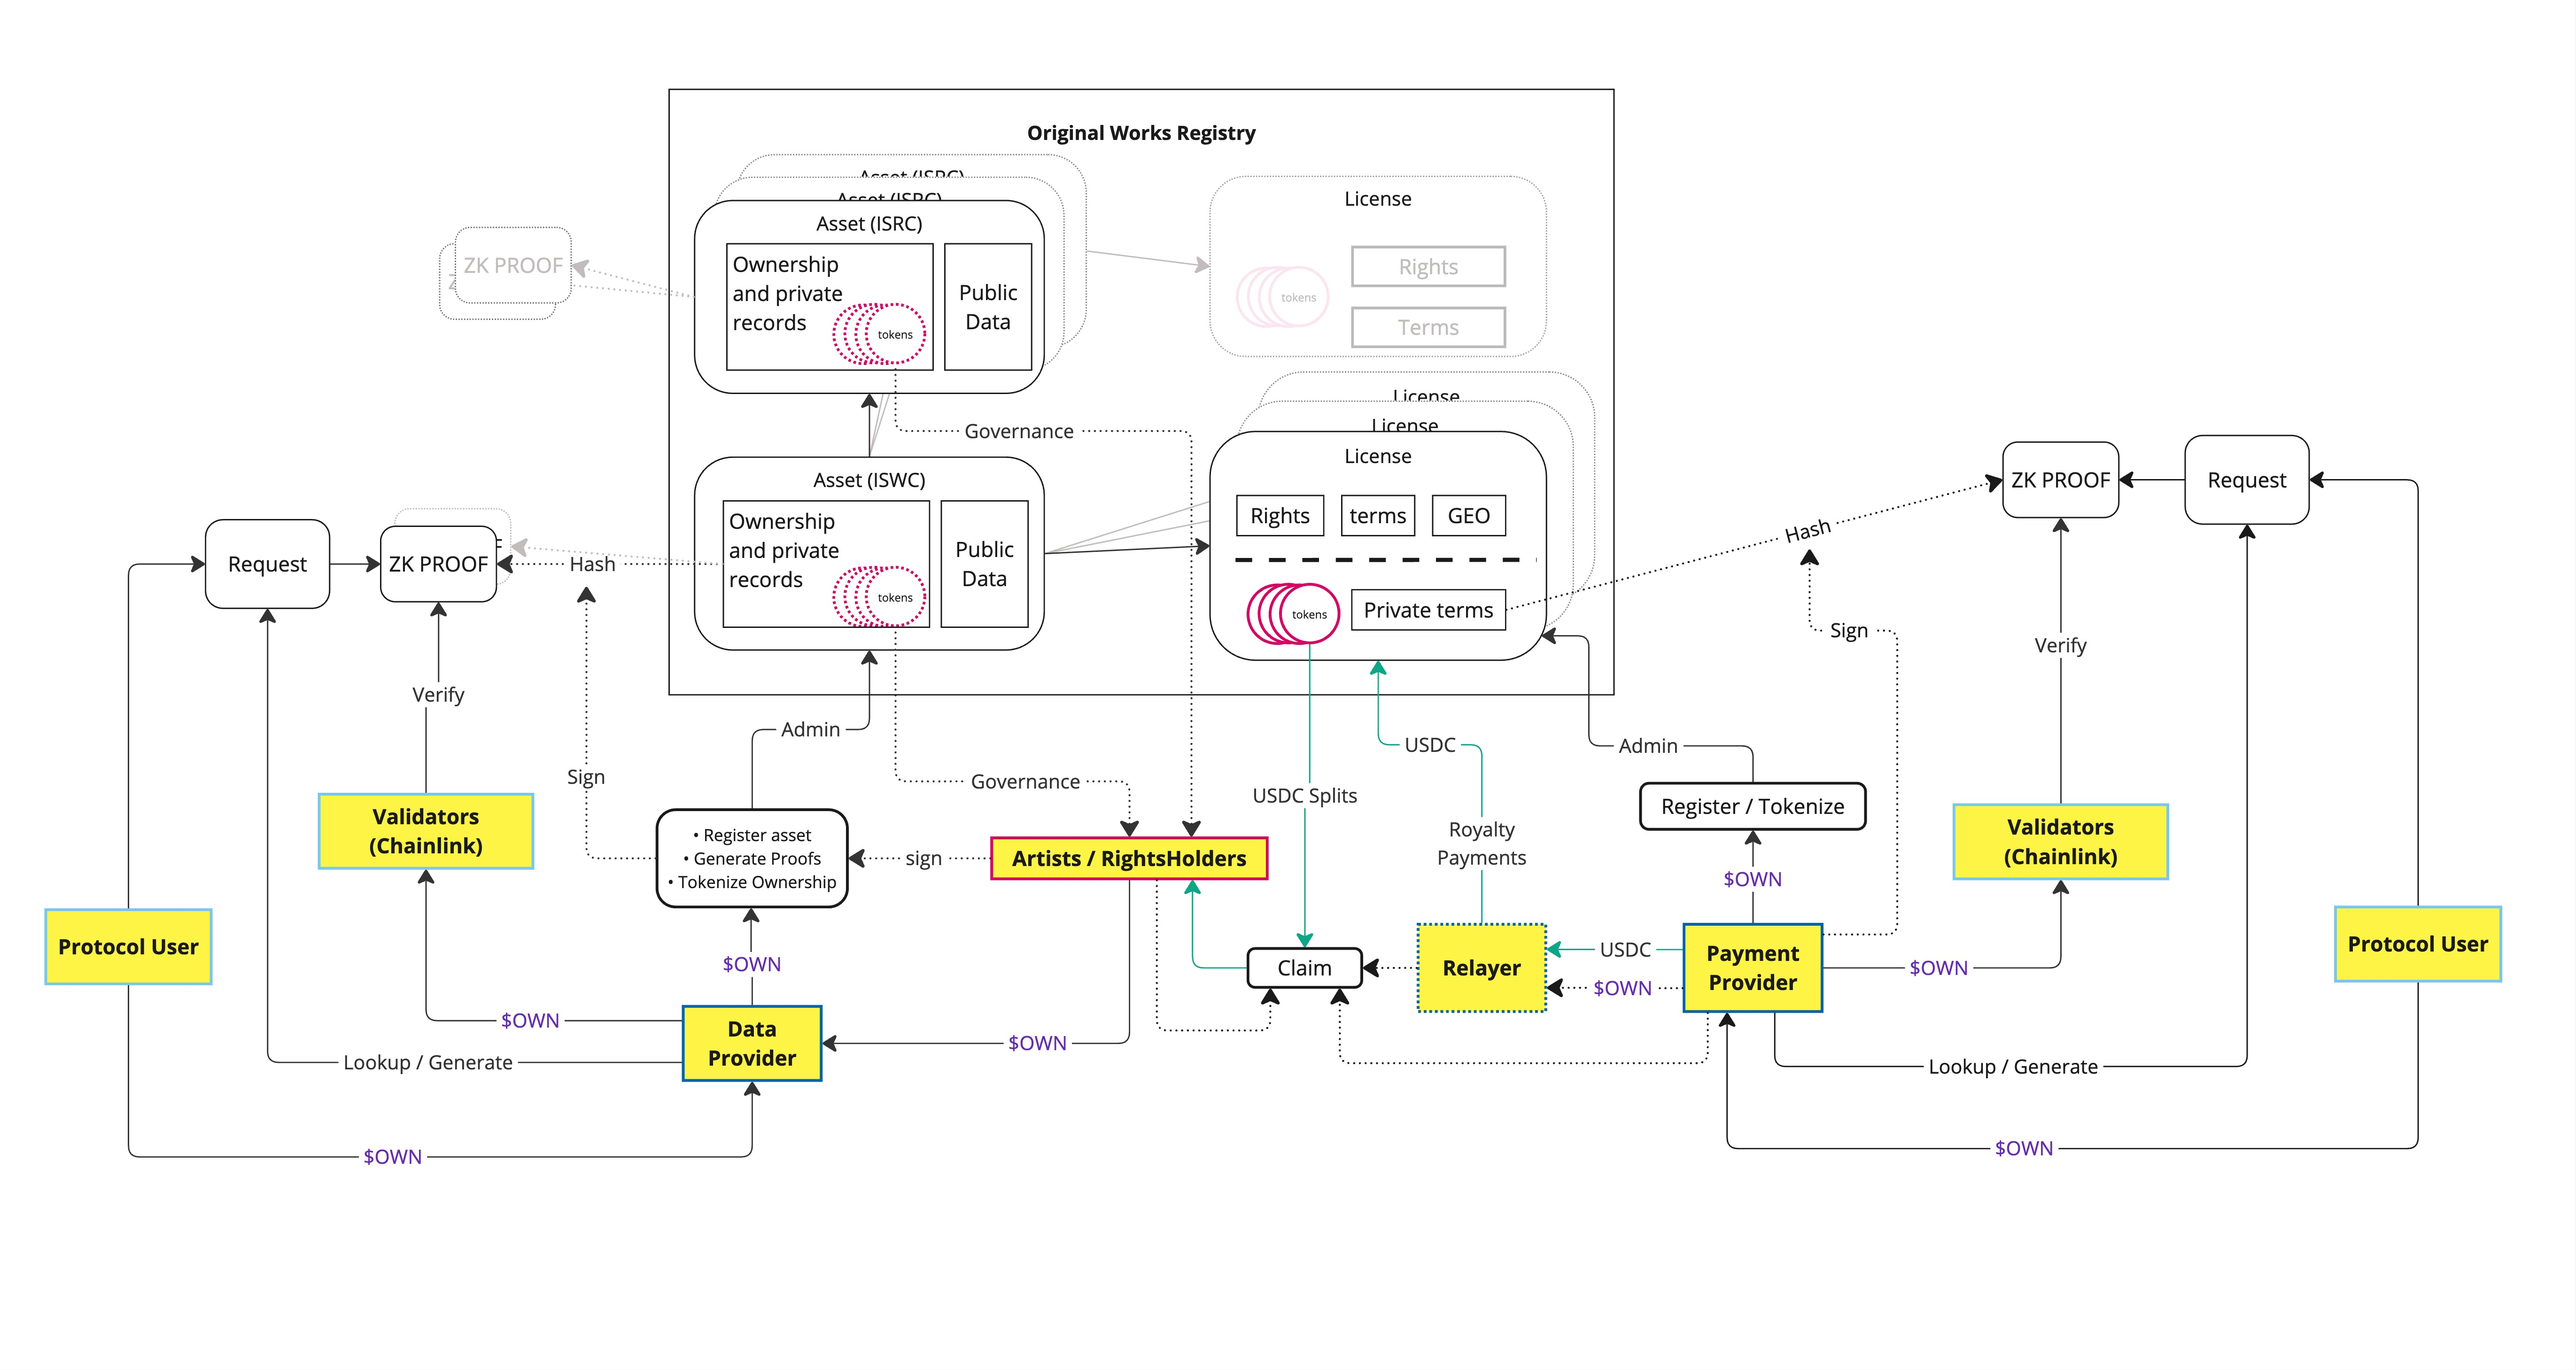
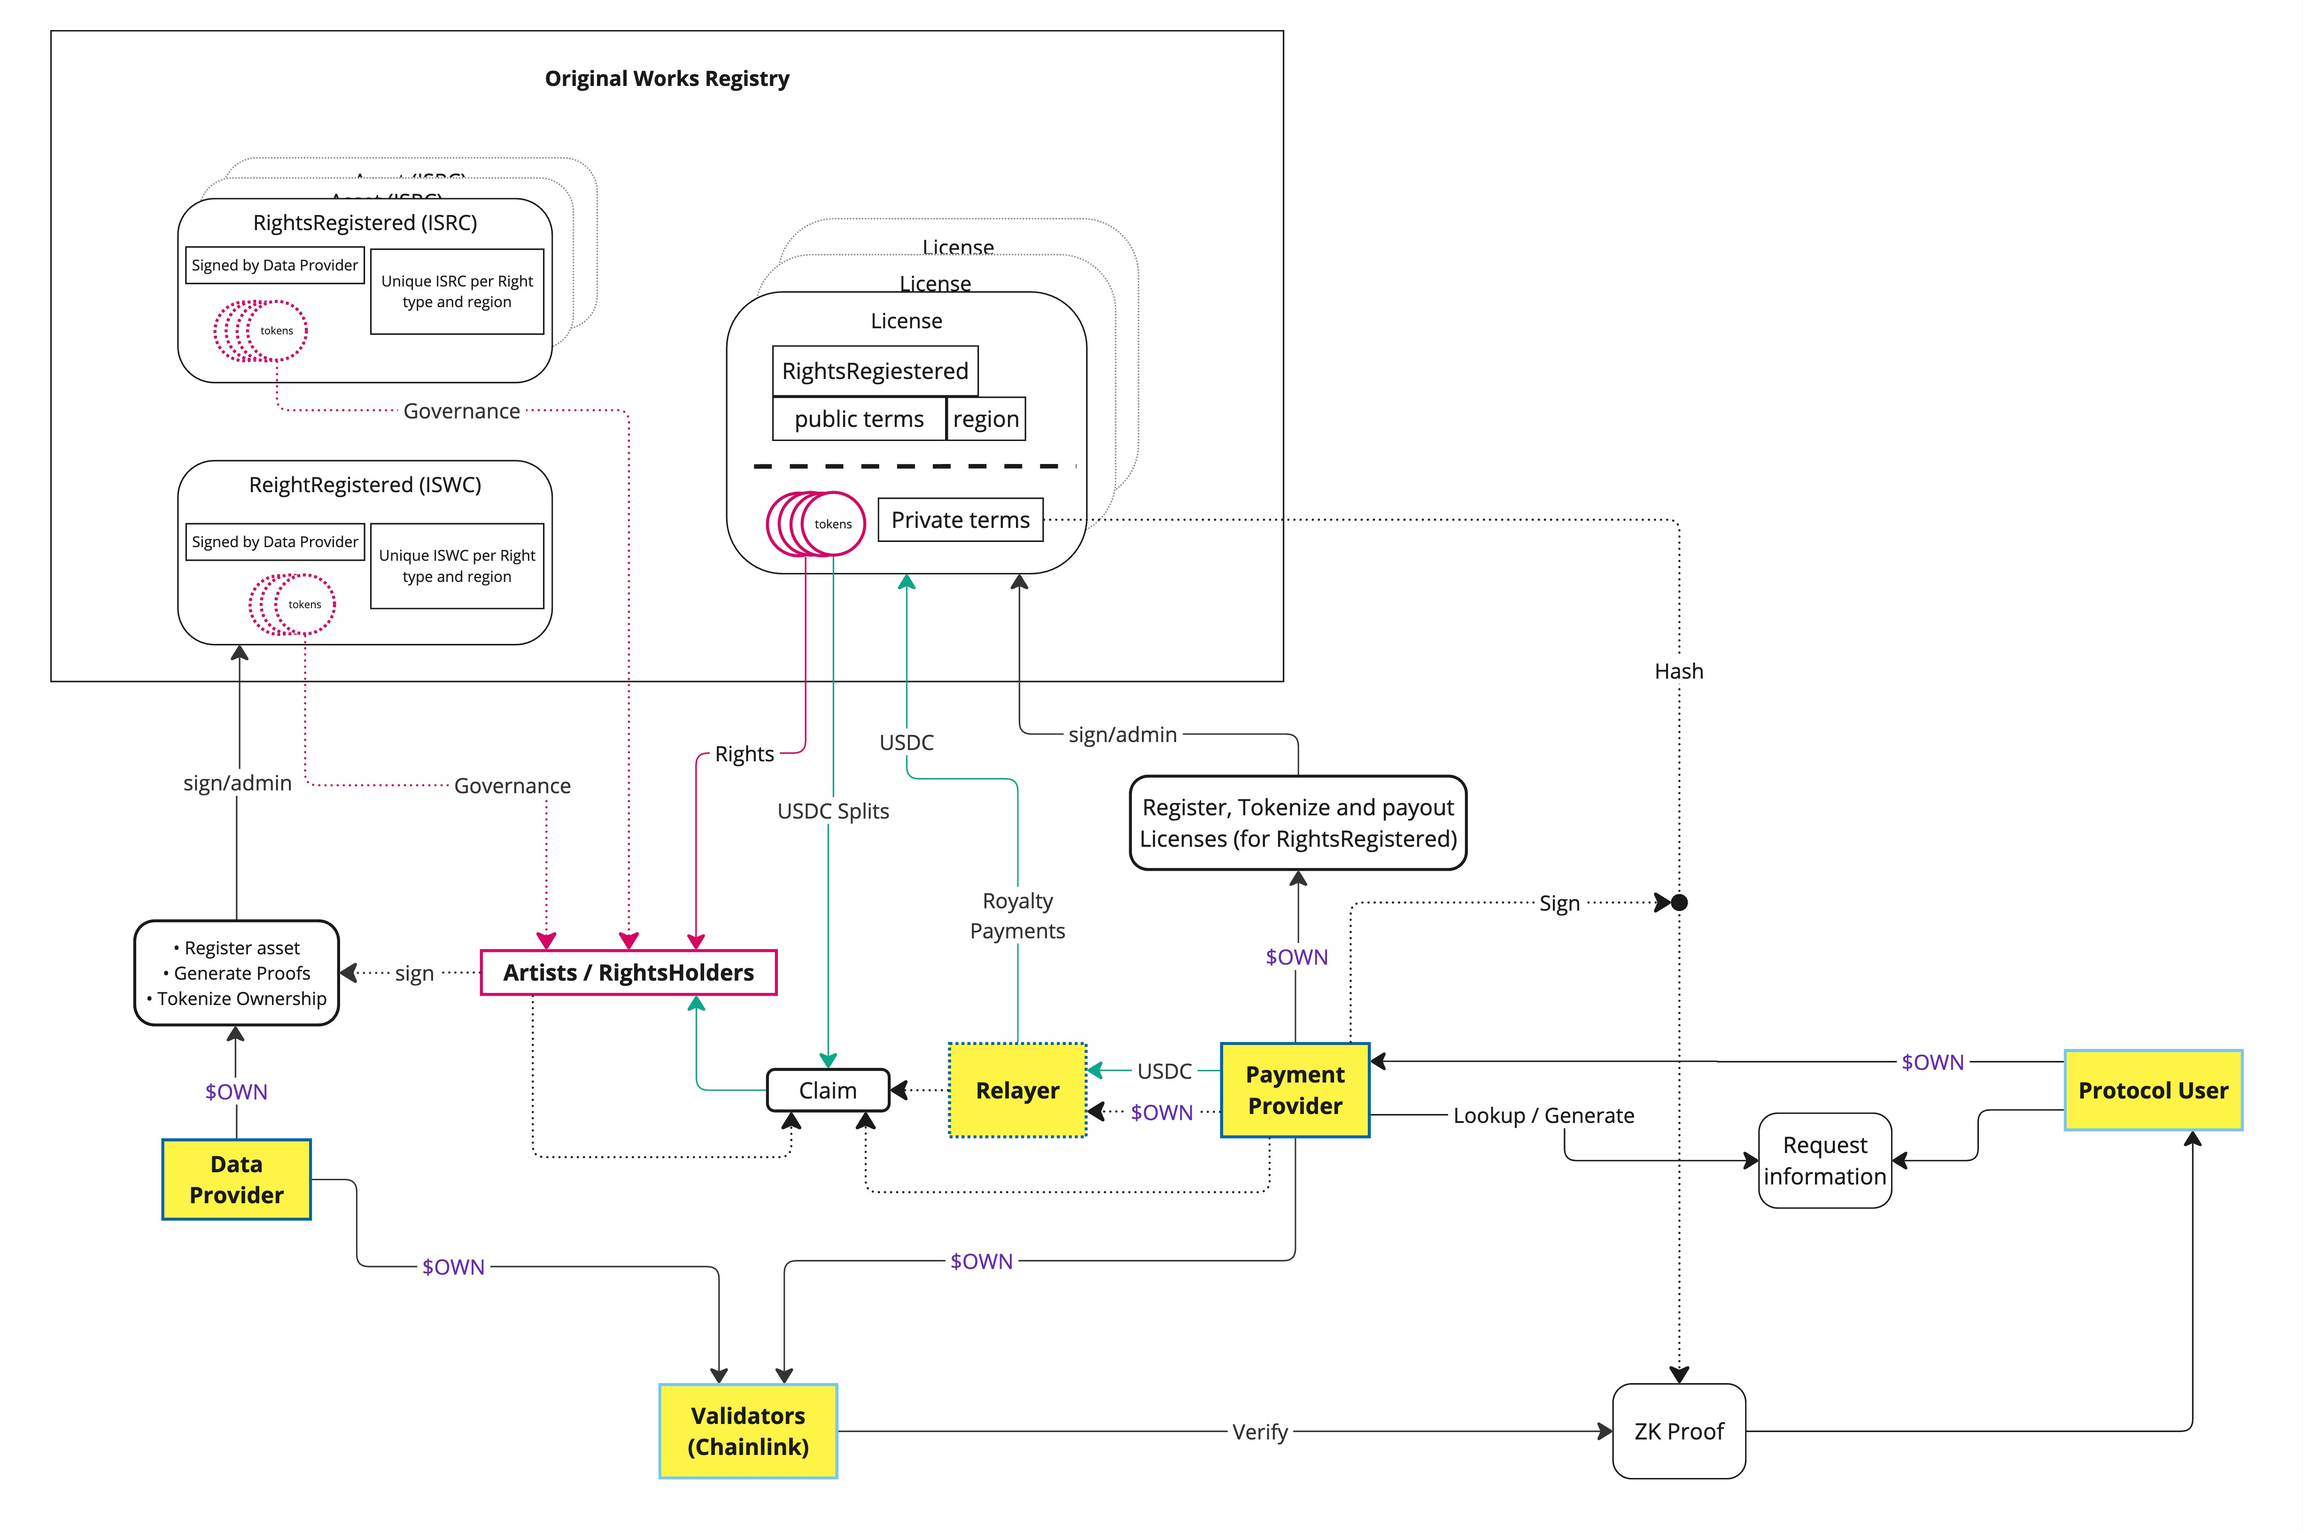
GITBOOK-410: No subject

diff --git a/protocol/privacy.md b/protocol/privacy.md
@@ -2,7 +2,9 @@
 
 ### Guiding principles
 
-Registration and payment solutions on Original Works are built upon the basic blockchain constructs of decentralization, immutability, self-custody. Transparency however has always been a sensitive issue in the music industry as it is used mainly by managers and other representatives of `RightsHolders` to maximize their leverage and earnings in negotiations.&#x20;
+Registration and payment solutions on Original Works are built upon the basic blockchain constructs of decentralization, immutability and self-custody. While se strongly believe in the importance of transparency, we also understand how important it is, **if we want to offer **_**true**_** self-custody**, to allow artists and other holders of rights to protect their own privacy and elect what information they wish to make public. We do not believe an "Open Protocol" as we intend Original Works to be should force rights holders to give up all privacy for better financing solutions.
+
+Transparency however has always been a sensitive issue in the music industry as it is used mainly by managers and other representatives of `RightsHolders` to maximize their leverage and earnings in negotiations.&#x20;
 
 `RightsHolder` don't want to expose how much they are earning, what deals their managers have obtained for them, and how much of their catalog they actually own. `DataProviders` such as distributors and royalty societies have no interest in exposing this sensitive data and therefore there is no efficient, easy and accessible way today to extract or purchase specific datapoint about a specific asset by 3rd parties.
 
@@ -15,7 +17,7 @@ The main challenge is keeping the EVM composability, while strengthening privacy
 
 Original Works will:&#x20;
 
-* allow `RightsHolders` to validate their ownership without knowing other holders' ballances
+* allow `RightsHolders` to validate their ownership without knowing other holders' balances
 * allow `RightsHolders` to obfuscate payment via batch payments to their private wallets
 * allow `RightsHolders` to prove how much they got paid from a license by sharing a secret with 3rd parties
 * allow `DataProviders` to check there is no `RightsRegistered` (duplicate record in the Registry) governing the same `rights` for the same `Creation` in the same `region`

diff --git a/README.md b/README.md
@@ -28,9 +28,9 @@ Most music assets today are off-chain, under-monetized and illiquid. Providing a
 
 Founded by music industry veterans, pioneering in digital reporting of music IP monetization and digital supply chain management throughout the transformation of the industry in the past two decades we are building the protocol under the following assumptions, which are being validated with our design partners throughout the development phase of the protocol:
 
-1. Rights holders, artists, creators and most independent labels rely on service providers administrating and monetizing and protecting their rights. We will refer to these collectively as **Service Providers**.&#x20;
-2. Service Providers will need to continue protecting the privacy of their customers and need a simple  non-disruptive solution to securely sync their data
-3. Service Providers would enjoy the benefit of monetizing their data if they can have an easy plug-and-play solution to provide Verifiable Credentials about assets, rights, licenses, payments and claims.
+1. Rights holders, artists, creators and most independent labels rely on service providers administrating and monetizing and protecting their rights.
+2. Service providers will need to continue protecting the privacy of their customers and need a simple  non-disruptive solution to securely sync their data
+3. Service providers would enjoy the benefit of monetizing their data if they can have an easy plug-and-play solution to provide Verifiable Credentials about assets, rights, licenses, payments and claims.
 4. All rights holders will be happy to validate the accuracy of their revenue by a non-trusted 3rd party, while retaining full privacy on their data.&#x20;
 5. All Rrights holders will enjoy the benefit of easily migrating their catalog and/or licenses
 6. Most rights holders would enjoy access to fair and transparent liquidity in the form of royalty advances and loans for IP catalog investments

diff --git a/introduction/rights-and-royalties-on-chain.md b/introduction/rights-and-royalties-on-chain.md
@@ -10,7 +10,9 @@ Revenue paid to creative assets tokenized on Original Works originate from off-c
 
 In order to drive liquidity to the creative industries, a simple and near real-time method to evaluate and benchmark an asset is needed to understand its underlying cashflows and obtain guarantees against any form of royalty advances. Unfortunately, the way music is described and registered and revenue is recorded, collected and settled across jurisdictions and industries ends up a very fragmented illiquid market.&#x20;
 
-A permissionless decentralized global rights registry disambiguates any information or claim about an asset allowing for catalog managers, potential investors and other smart contracts to review correlated and verified data, solving this issue. As such, the Original Works Protocol allows any music asset manager and/owner to provide fully immutable, current and accurate proofs (cryptographic verification of the existence of a record, while maintaining full data privacy) about copyright, rights covered, existing license terms and any other data they wish to verify about an asset.
+We aim to solve this is by enabling a permissionless decentralized global rights registry, that can disambiguate any information or claim about any asset and hide all related balances, while still allowing catalog managers, potential investors and other smart contracts to obtain access to correlated and verified data on-demand.
+
+The Original Works Protocol allows any music asset manager/owner to provide fully immutable, current and accurate proofs (cryptographic verification of the existence of a record, while maintaining full data privacy) about copyright, rights covered, existing license terms and any other data that needs  to be corroborated about an asset. Data providers can monetize their data more efficiently this way.
 
 ### Turning Music IP to a Composable Digital Asset
 

diff --git a/protocol/how-it-works.md b/protocol/how-it-works.md
@@ -1,3 +1,25 @@
 # How it Works
 
-Insert website diagram
+### Registering Musical Works, Recordings and licenses on chain
+
+`DataProviders` upload specific information about each asset (`Release` or `SoundRecording`, identified by their global ISWC and ISRC records respectively) to a private IPFS node, and submit a message to the protocol, with a proof of registration, revealing _only_ the **asset identifier** (ISRC or ISWC), **`RightsCoverage[]`**, and **`Region`**.&#x20;
+
+The protocol then validates that no proof of record with conflicting _public_ terms (unique combination of asset, specific right, region) has been registered.&#x20;
+
+This message constitutes the `RegisteredRights` - a unique record, granting the `DataProvider` signing the registration message the sole[^1] authority to issue `Licenses` under the `RegisteredRights`.&#x20;
+
+`Licenses` are issued against any real world agreement, that captures it's rights holders exercise of rights in a business construct - such as a distribution or royalty collection contract.
+
+### Tokenizing Royalty Payments
+
+Rights holders may elect to register their assets on-chain in order to anonymously and privately record and collect their royalties on chain, unlocking liquidity and making it easy to grant access to their royalty data; In order to do so, they will need to distribute their music with one of the Protocol `PaymentProviders`. All `PaymentProviders` are also `DataProviders` and if they&#x20;
+
+### Automating Royalty Payments to Rights Holders
+
+### Getting a Royalty Advance form and DeFi Lending Pool
+
+<figure><img src="../.gitbook/assets/Web 3 Planning - Frame 13 (3).jpg" alt=""><figcaption></figcaption></figure>
+
+
+
+[^1]: In v1.2 Data providers will be able to tokenize their assets and give rights holders full custody and governance over the assets
